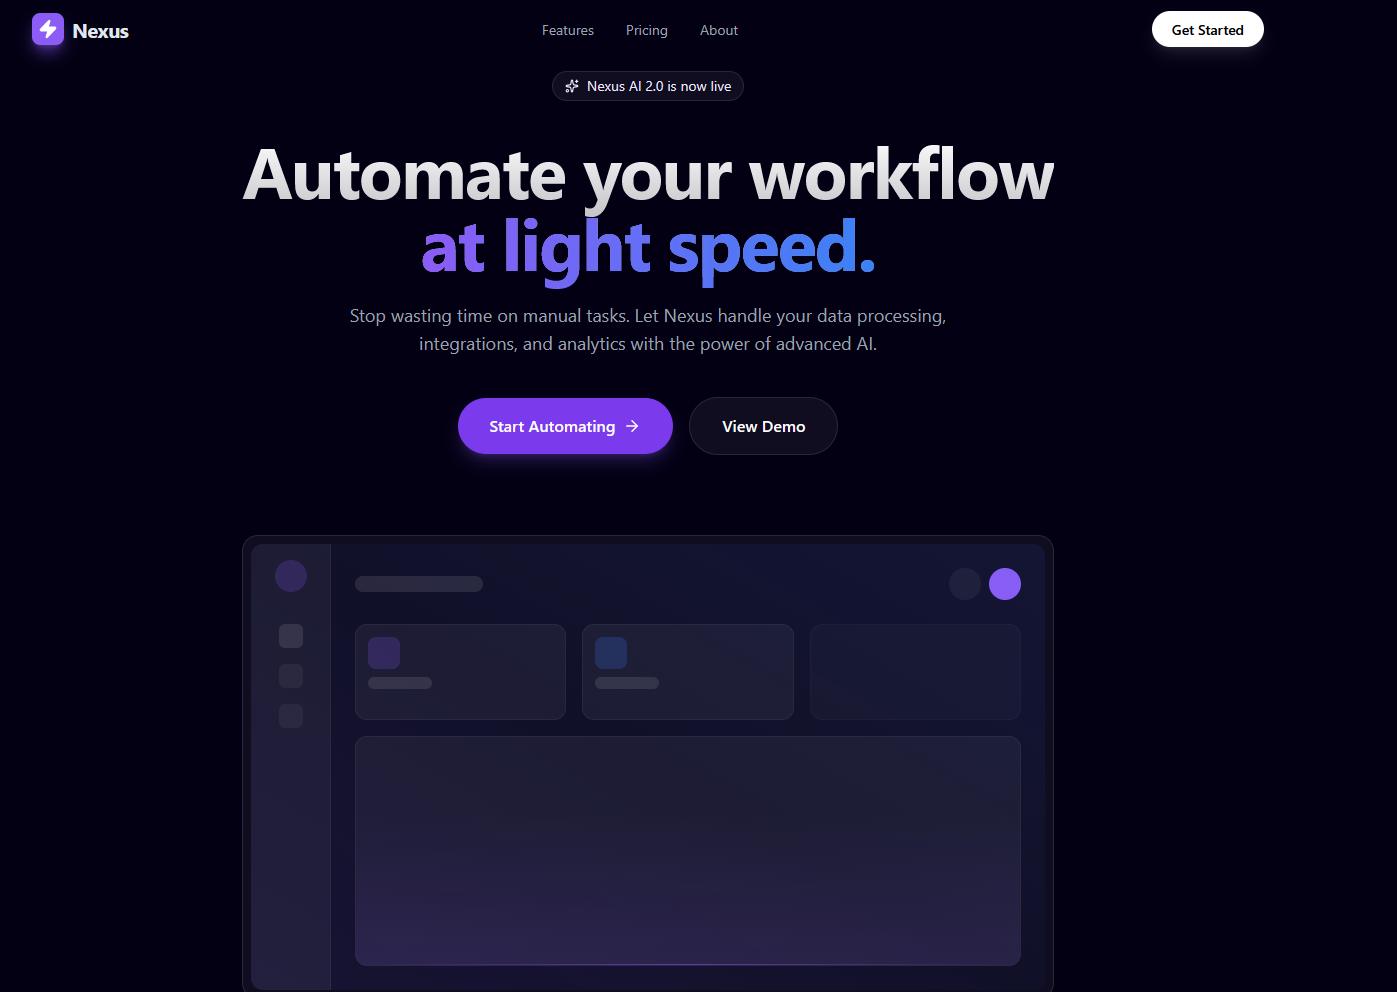
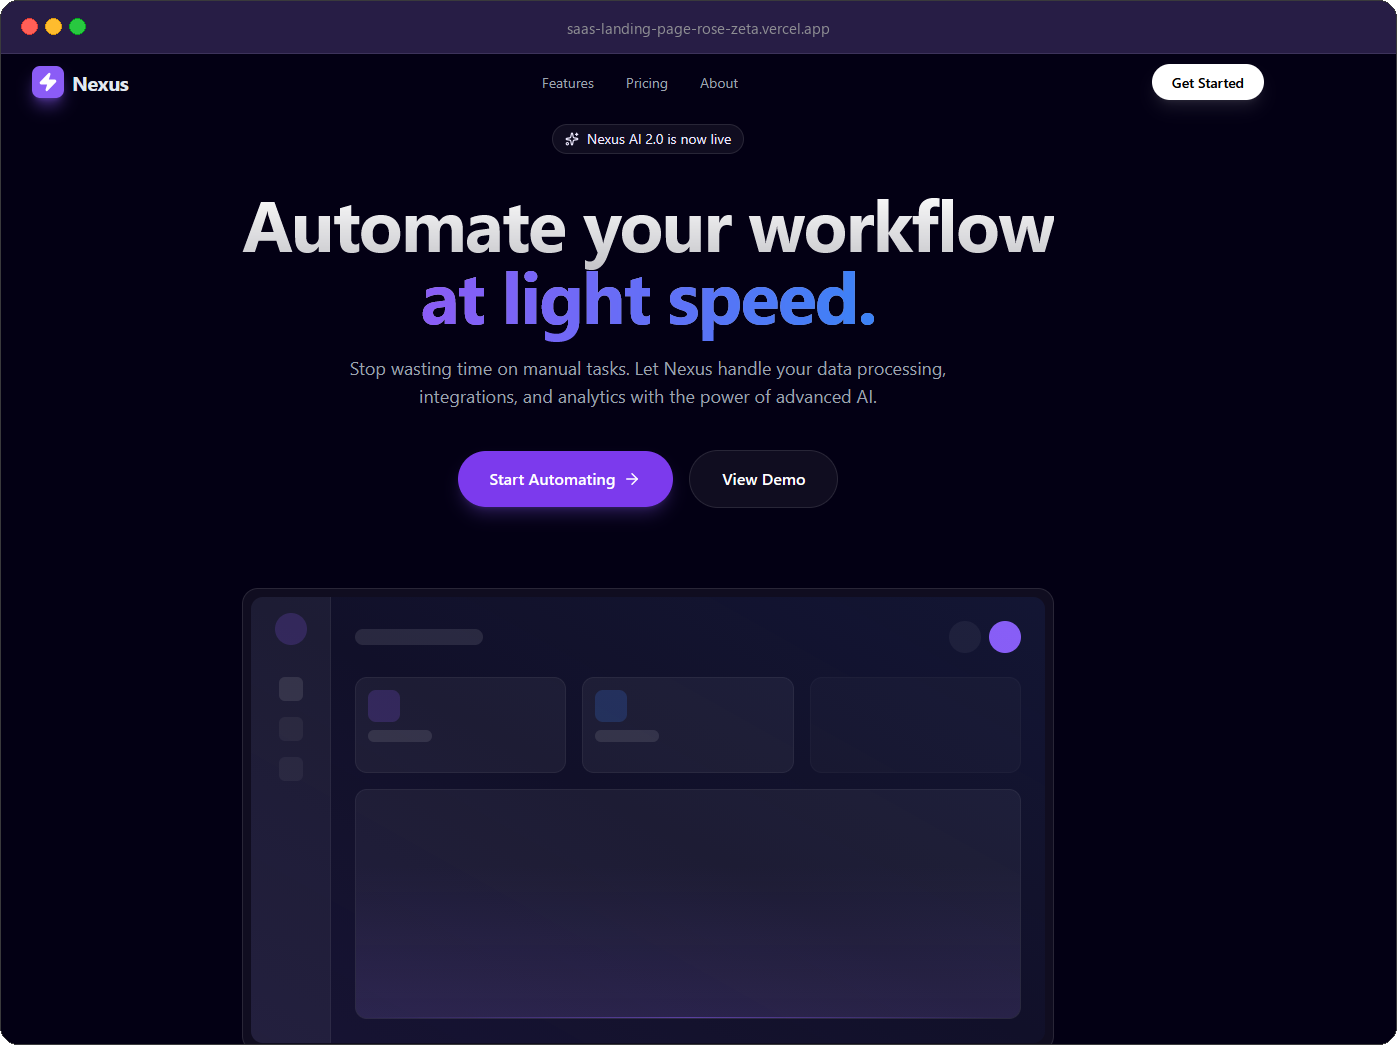
Rewrite README and wrap preview in a macOS window frame

diff --git a/README.md b/README.md
@@ -1,24 +1,45 @@
-# ⚡ Nexus AI - Modern SaaS Landing Page
+# Nexus AI — Landing Page
 
-A high-conversion landing page for a fictional AI SaaS product. Built to demonstrate advanced frontend techniques including scroll-triggered animations, complex layouts (Bento Grid), and glassmorphism UI.
+A single-page marketing site for a fictional AI product. It was built as a frontend
+exercise around scroll-triggered animations, a Bento Grid feature section and a
+glassmorphic sticky navbar.
 
-![Project Preview](./preview.png)
+**[Live demo](https://saas-landing-page-rose-zeta.vercel.app)**
 
-## 🚀 Live Demo
-[View Live Project](https://saas-landing-page-rose-zeta.vercel.app/)
+![Landing page preview](./preview.png)
 
-## ✨ Key Features
-* **🎭 Scroll Reveal Animations:** Elements fade in and slide up elegantly as the user scrolls (`Framer Motion`).
-* **🍱 Bento Grid Layout:** Asymmetric, Apple-style grid layout that adapts perfectly to all screen sizes.
-* **💎 Glassmorphism Navbar:** Smart sticky header that becomes blurred/glassy when scrolling.
-* **🎨 Modern UI Design:** Deep dark mode with vibrant neon accents and "glow" effects.
-* **📱 Fully Responsive:** Optimized for mobile, tablet, and desktop.
+## Sections
 
-## 🛠 Tech Stack
-* React + Vite
-* Tailwind CSS (Styling & Gradients)
-* Framer Motion (Complex Animations)
-* Lucide React (Iconography)
+- **Hero** — headline, primary call to action and product mockup
+- **Features** — asymmetric Bento Grid that reflows on mobile
+- **Pricing** — three tiers with the middle plan highlighted
+- **Footer** — minimal links and copyright
 
----
-Made with ❤ by [Carlos Gordillo](https://github.com/c26200)
+## Stack
+
+React 19 · Vite · Tailwind CSS · Framer Motion · Lucide React
+
+## Run locally
+
+```bash
+npm install
+npm run dev
+```
+
+## Structure
+
+```
+src/
+├── components/
+│   ├── Navbar.jsx             # Sticky glass navbar
+│   ├── Hero.jsx
+│   ├── Features.jsx           # Bento Grid
+│   └── Pricing.jsx
+└── App.jsx
+```
+
+## Notes
+
+Nexus AI is fictional: the copy, plan names and prices are placeholders. There is no
+backend, and the call-to-action buttons do not submit anywhere. The project is best read
+as a layout and animation exercise.
